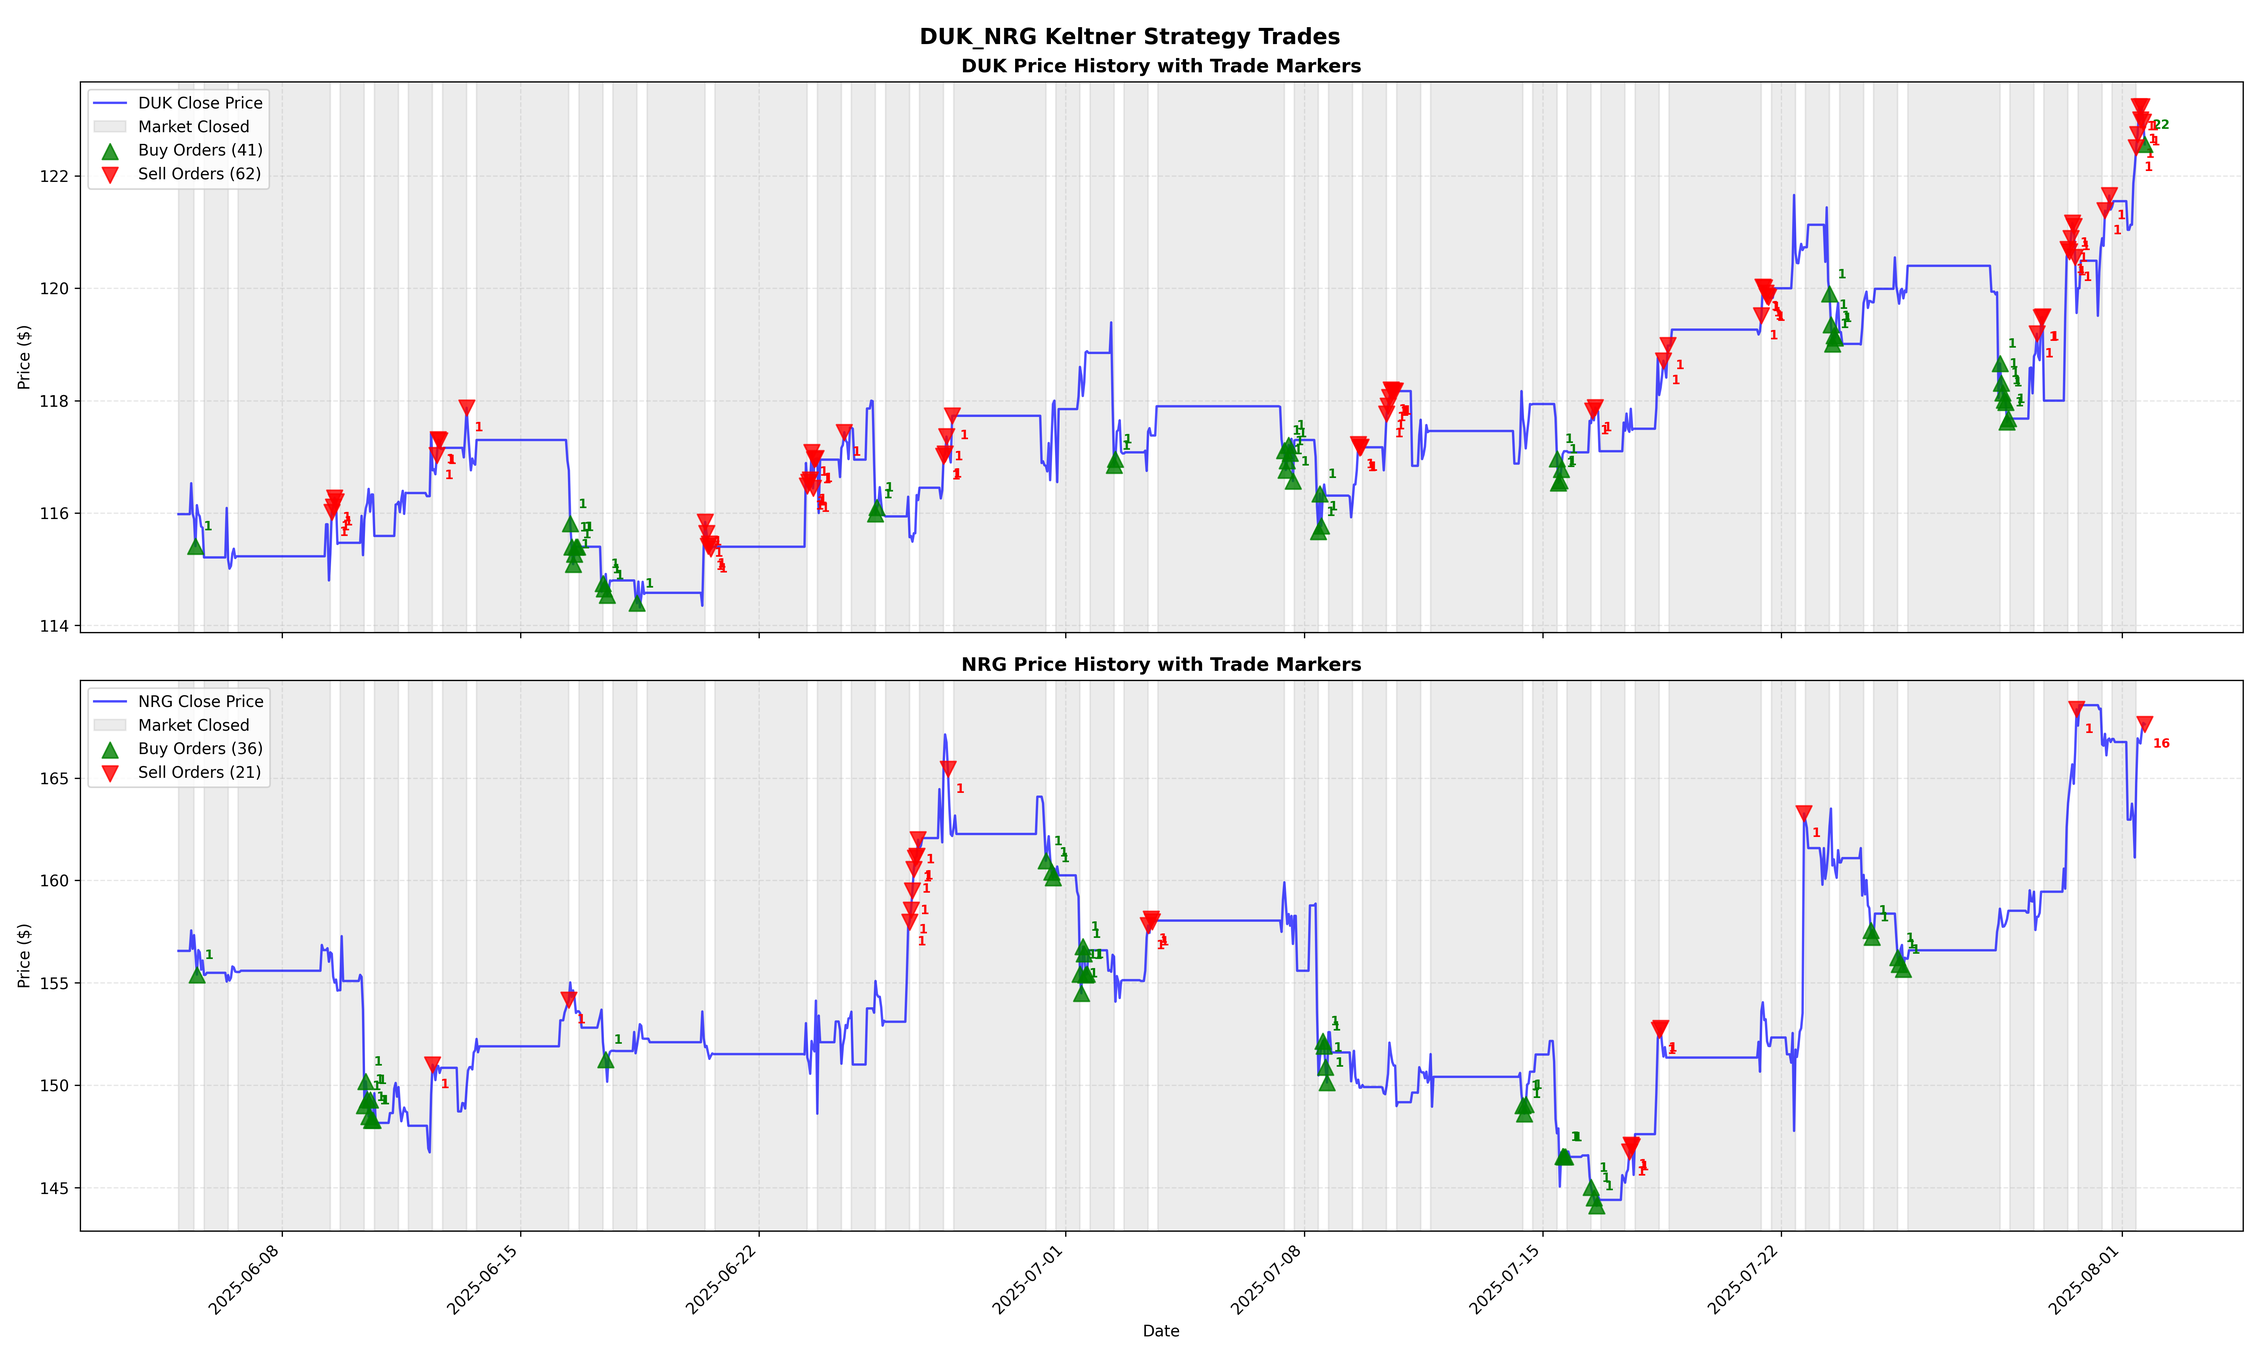
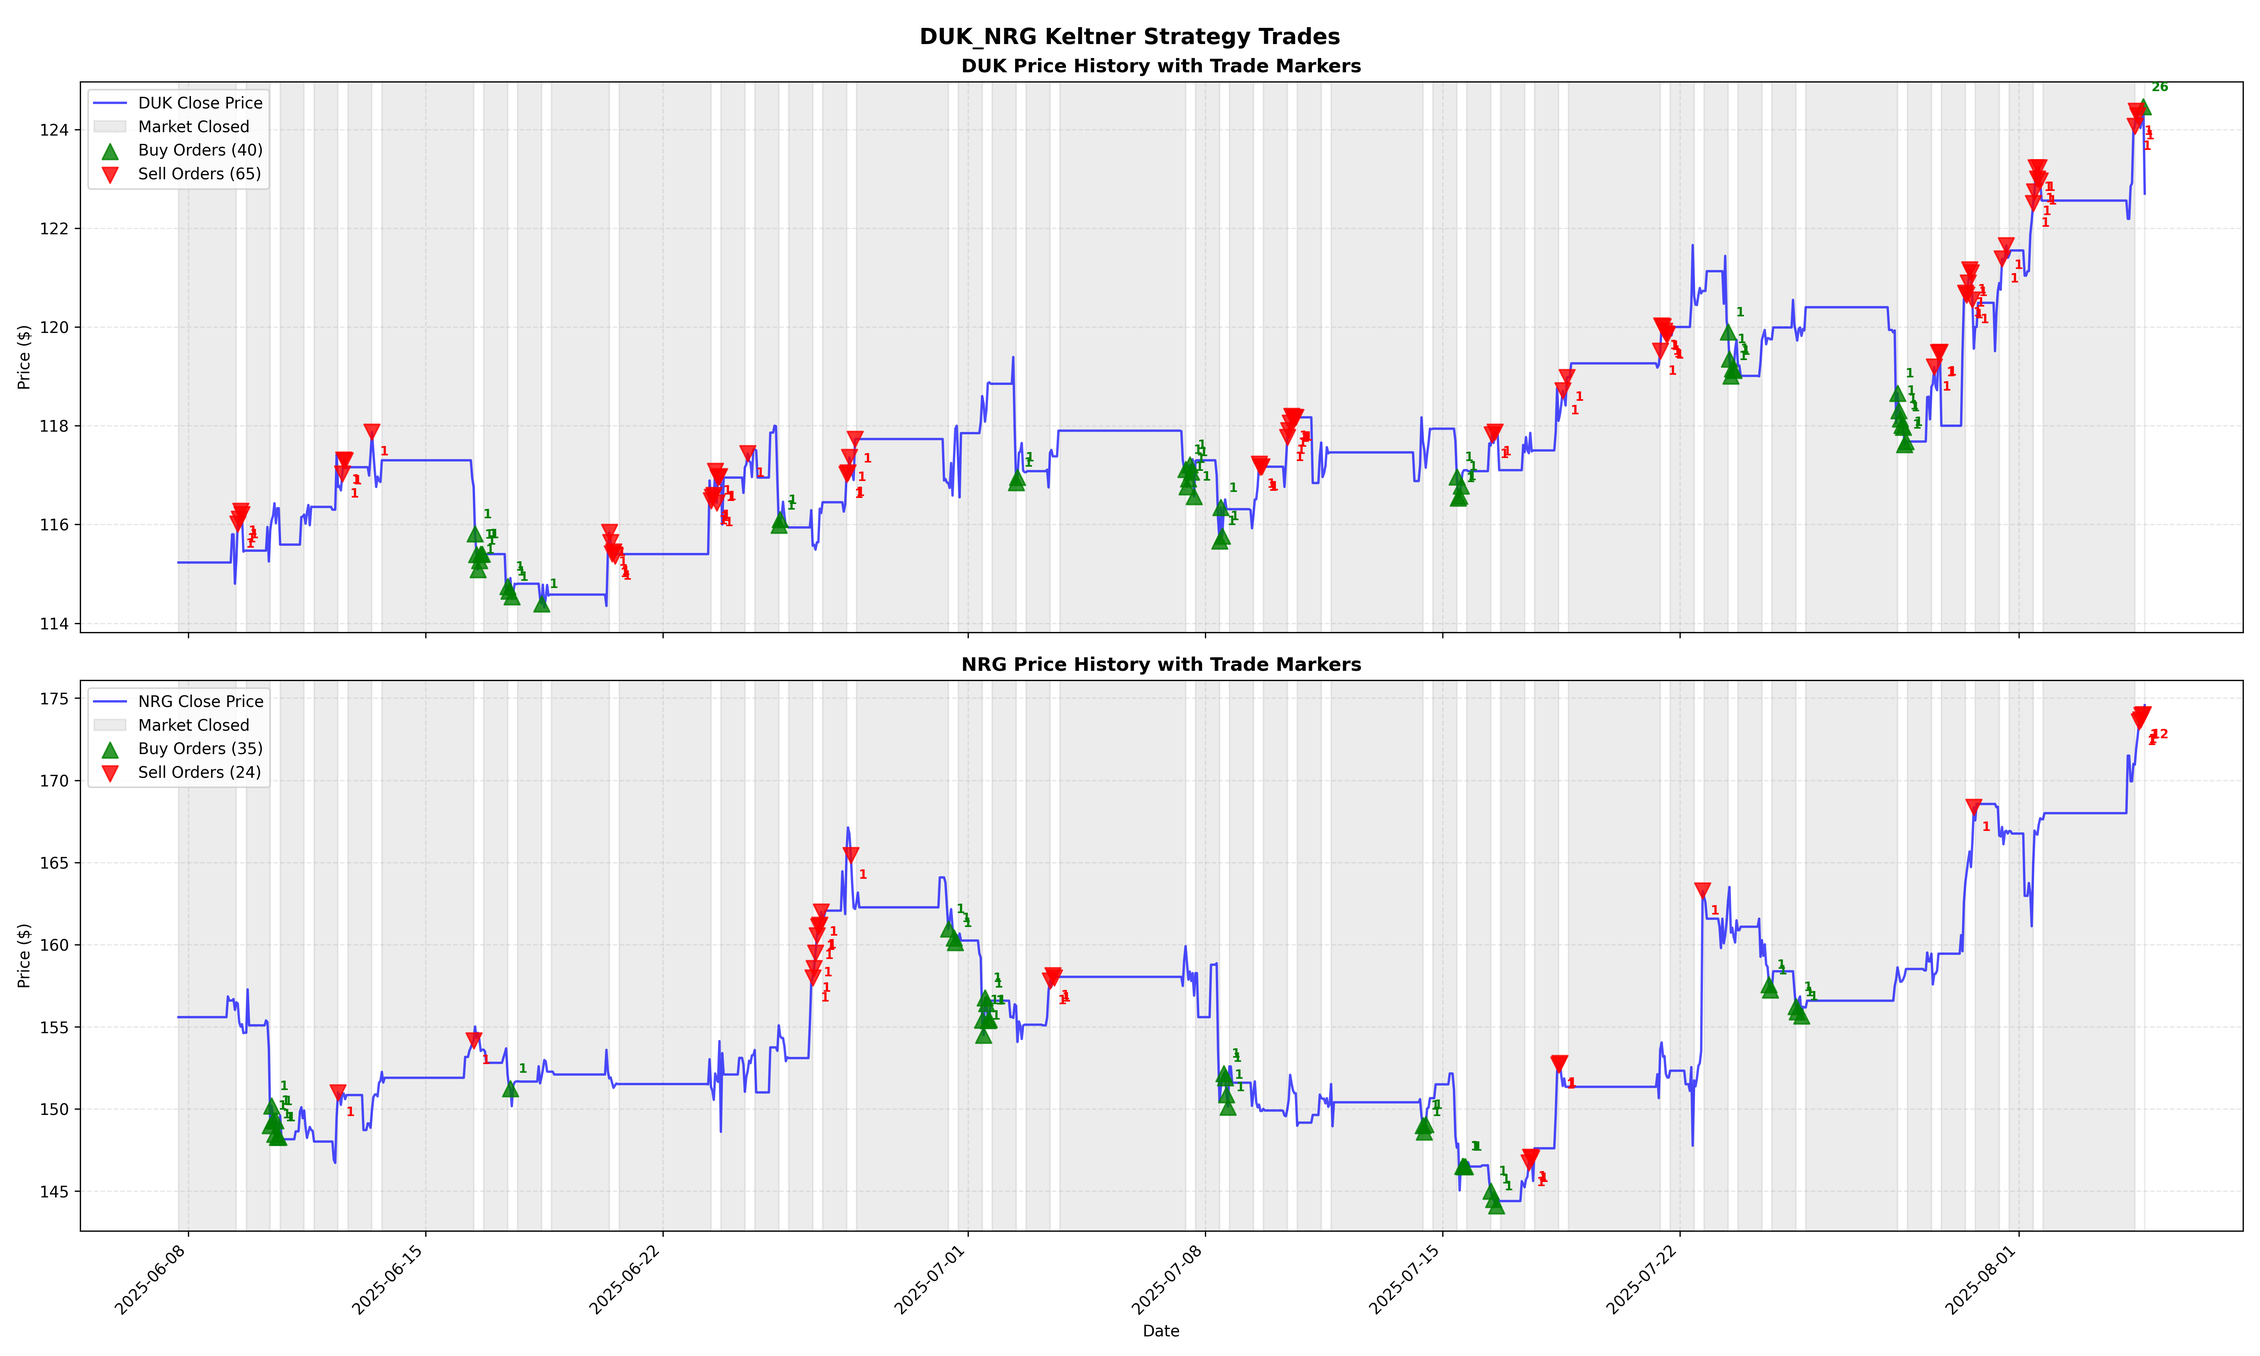
screwing around with more strats

diff --git a/src/backtester.py b/src/backtester.py
@@ -30,7 +30,7 @@ class Position(Enum):
     NEUTRAL = 0
 
 
-QUANTITY_PRECISION = 2
+QUANTITY_PRECISION = 4
 
 
 class Order:
@@ -52,7 +52,7 @@ class Order:
     def get_value(self) -> float:
         """Get the value of the order.
         """
-        return round(self.price * self.quantity, QUANTITY_PRECISION)
+        return self.price * self.quantity
 
     def __str__(self) -> str:
         """String representation of the order.
@@ -414,13 +414,19 @@ class EventBacktester(ABC):
         win_rate, net_profits = self.get_win_rate(return_net_profits=True)
         avg_trade_return = net_profits["net_profit_percentage"].mean()
         largest_win = net_profits["net_profit_percentage"].max()
-        largest_loss = net_profits["net_profit_percentage"].min()
+        largest_loss = net_profits["net_profit_percentage"].min(
+        ) if net_profits["net_profit_percentage"].min() < 0 else 0
         largest_win_dollars = net_profits["net_profit_dollars"].max()
         largest_loss_dollars = net_profits["net_profit_dollars"].min()
         max_consecutive_wins = net_profits["win"].astype(
             int).diff().ne(0).cumsum().max()
         max_consecutive_losses = net_profits["win"].astype(
             int).diff().ne(0).cumsum().min()
+
+        # calculate percentage of time in market. meaning, the percentage of time that the portfolio was not empty
+        time_in_market = (
+            state_history["portfolio_value"] != 0).sum() / len(state_history)
+
         # compare to buy and hold (prices)
         all_cum_returns = self.get_buy_and_hold_returns()
         combined_returns = all_cum_returns.mean(axis=1)
@@ -454,8 +460,39 @@ class EventBacktester(ABC):
             "largest_win_dollars": round(largest_win_dollars, 2),
             "largest_loss_dollars": round(largest_loss_dollars, 2),
             "max_consecutive_wins": max_consecutive_wins,
-            "max_consecutive_losses": max_consecutive_losses
+            "max_consecutive_losses": max_consecutive_losses,
+            "time_in_market": time_in_market
         })
+
+    def pretty_format_performance(self) -> str:
+        """
+        Pretty print the performance of the backtest.
+        """
+        performance = self.analyze_performance()
+        output = f"""Backtest Performance:
+- Return on Investment: {(performance["return_on_investment"]-1)*100:.2f}%
+- vs. Buy and Hold Return: {(performance["buy_and_hold_return"]-1)*100:.2f}%
+- Sharpe Ratio: {performance["sharpe_ratio"]:.2f}
+- Max Drawdown Percentage: {(performance["max_drawdown_percentage"])*100:.2f}%\n
+- Start Portfolio Value: ${performance["start_portfolio_value"]:.2f}
+- End Portfolio Value: ${performance["end_portfolio_value"]:.2f}
+- Min Portfolio Value: ${performance["min_portfolio_value"]:.2f}
+- Max Portfolio Value: ${performance["max_portfolio_value"]:.2f}
+- Win Rate: {performance["win_rate"]*100:.2f}%\n
+- Number of Orders: {performance["number_of_orders"]}
+- Number of Winning Trades: {performance["number_of_winning_trades"]}
+- Number of Losing Trades: {performance["number_of_losing_trades"]}
+- Avg Trade Return: {performance["avg_trade_return"]*100:.2f}%
+- Largest Win: {performance["largest_win"]*100:.2f}% (${performance["largest_win_dollars"]:.2f})
+- Largest Loss: {performance["largest_loss"]*100:.2f}% (${performance["largest_loss_dollars"]:.2f})
+- Max Consecutive Wins: {performance["max_consecutive_wins"]}
+- Max Consecutive Losses: {performance["max_consecutive_losses"]}\n
+- Trading Period Start: {performance["trading_period_start"]}
+- Trading Period End: {performance["trading_period_end"]}
+- Trading Period Length: {performance["trading_period_length"]}
+- Time in Market: {performance["time_in_market"]*100:.2f}%
+        """
+        return output
 
     def calculate_sharpe_ratio(self, risk_free_rate: float = 0.0, periods_per_year: int = 252) -> float:
         """
@@ -804,7 +841,7 @@ class EventBacktester(ABC):
         plt.tight_layout()
 
         if save_plot:
-            plt_show(prefix=title.replace(" ", "_"))
+            plt_show(prefix=title.replace(" ", "_").replace("/", ""))
 
         if show_plot:
             plt.show()
@@ -945,7 +982,7 @@ class EventBacktester(ABC):
         plt.tight_layout()
 
         if save_plot:
-            plt_show(prefix=title.replace(" ", "_"))
+            plt_show(prefix=title.replace(" ", "_").replace("/", ""))
 
         if show_plot:
             plt.show()
@@ -1043,7 +1080,11 @@ class EventBacktester(ABC):
                         # Add quantity annotations for buy orders
                         for idx, row in buy_orders.iterrows():
                             if show_quantity:
-                                ax.annotate(f"{row['quantity']:.0f}",
+                                if row['quantity'] < 1:
+                                    fmtstr = f"{row['quantity']:.2e}"
+                                else:
+                                    fmtstr = f"{row['quantity']:.0f}"
+                                ax.annotate(fmtstr,
                                             (idx, row['price']),
                                             xytext=(5, 10), textcoords='offset points',
                                             fontsize=8, color='green', weight='bold')
@@ -1057,7 +1098,11 @@ class EventBacktester(ABC):
                         # Add quantity annotations for sell orders
                         for idx, row in sell_orders.iterrows():
                             if show_quantity:
-                                ax.annotate(f"{row['quantity']:.0f}",
+                                if row['quantity'] < 1:
+                                    fmtstr = f"{row['quantity']:.2e}"
+                                else:
+                                    fmtstr = f"{row['quantity']:.0f}"
+                                ax.annotate(fmtstr,
                                             (idx, row['price']),
                                             xytext=(5, -15), textcoords='offset points',
                                             fontsize=8, color='red', weight='bold')
@@ -1095,7 +1140,7 @@ class EventBacktester(ABC):
         plt.tight_layout()
 
         if save_plot:
-            plt_show(prefix=title.replace(" ", "_"))
+            plt_show(prefix=title.replace(" ", "_").replace("/", ""))
 
         if show_plot:
             plt.show()

diff --git a/examples/ema_rsi.py b/examples/ema_rsi.py
@@ -1,0 +1,112 @@
+from datetime import datetime, timedelta
+import logging
+
+from alpaca.data.timeframe import TimeFrame
+import pandas as pd
+from talib import ATR, EMA, RSI
+
+from data import (
+    download_crypto_bars,
+    download_bars,
+    separate_bars_by_symbol,
+    split_multi_index_bars_train_test,
+)
+
+from __init__ import *
+from src import *
+from src.backtester import EventBacktester, Order, Position
+from src.utilities import dash, get_logger, set_log_level
+
+set_log_level(logging.DEBUG)
+
+
+class EmaStrategy(EventBacktester):
+    """
+    Backtester that uses the Keltner Channel to make decisions.
+    """
+
+    def __init__(self, active_symbols, cash, **kwargs):
+        super().__init__(active_symbols, cash, **kwargs)
+        self.short_ema_period = 21
+        self.long_ema_period = 200
+        self.rsi_period = 14
+
+    def precompute_step(self, bars: pd.DataFrame):
+        """
+        Preload the indicators for the backtest.
+        """
+
+        split_bars = separate_bars_by_symbol(bars)
+
+        self.short_emas = {symbol: EMA(
+            split_bars[symbol].loc[:, "close"], timeperiod=self.short_ema_period) for symbol in self.active_symbols}
+        self.long_emas = {symbol: EMA(
+            split_bars[symbol].loc[:, "close"], timeperiod=self.long_ema_period) for symbol in self.active_symbols}
+        self.rsis = {symbol: RSI(
+            split_bars[symbol].loc[:, "close"], timeperiod=self.rsi_period) for symbol in self.active_symbols}
+
+    def update_step(self, bars: pd.DataFrame, index: pd.Timestamp):
+        """
+        Update the state of the backtester.
+        """
+        split_bars = separate_bars_by_symbol(bars)
+
+        self.short_emas = {symbol: EMA(
+            split_bars[symbol].loc[:, "close"], timeperiod=self.short_ema_period) for symbol in self.active_symbols}
+        self.long_emas = {symbol: EMA(
+            split_bars[symbol].loc[:, "close"], timeperiod=self.long_ema_period) for symbol in self.active_symbols}
+        self.rsis = {symbol: RSI(
+            split_bars[symbol].loc[:, "close"], timeperiod=self.rsi_period) for symbol in self.active_symbols}
+
+    def generate_order(self, bar: pd.DataFrame, index: pd.Timestamp) -> Order:
+        """
+        Make a decision based on the prices.
+        """
+        close_prices = bar.loc[:, "close"]
+
+        for symbol in self.active_symbols:
+            quantity = round(1000 / close_prices[symbol], 4)
+            if self.rsis[symbol][index] > 75 and self.short_emas[symbol][index] > self.long_emas[symbol][index]:
+                return Order(symbol, Position.SHORT, close_prices[symbol], quantity)
+            elif self.rsis[symbol][index] < 25 and self.short_emas[symbol][index] < self.long_emas[symbol][index]:
+                return Order(symbol, Position.LONG, close_prices[symbol], quantity)
+
+
+if __name__ == "__main__":
+    symbols = ["BTC/USD"]
+    # download the bars
+    bars = download_crypto_bars(symbols, start_date=datetime(
+        2024, 1, 1), end_date=datetime.now() - timedelta(minutes=15), timeframe=TimeFrame.Hour)
+
+    # bars = download_bars(symbols, start_date=datetime(
+   #     2024, 1, 1), end_date=datetime.now() - timedelta(minutes=15), timeframe=TimeFrame.Hour)
+    # split the bars into train and test
+    train_bars, test_bars = split_multi_index_bars_train_test(
+        bars, split_ratio=0.9)
+
+    # create the backtester
+    backtester = EmaStrategy(
+        symbols, cash=2000, allow_short=True, allow_overdraft=False, min_trade_value=1, market_hours_only=False)
+
+    # preload the train bars
+    backtester.load_train_bars(train_bars)
+
+    # run_backtest the backtest
+    backtester.run_backtest(test_bars)
+
+    # plot the order and state history
+    print(dash("order history"))
+    print(backtester.get_history())
+    print(dash("state history"))
+    print(backtester.get_state_history())
+
+    # plot the performance
+    print(dash("performance"))
+    print(backtester.pretty_format_performance())
+
+    # Plot the results
+    print("plotting...")
+    backtester.plot_performance_analysis(
+        title="_".join(symbols)+" EMA RSI Strategy Performance")
+    backtester.plot_trade_history(
+        title="_".join(symbols)+" EMA RSI Strategy Trades")

diff --git a/examples/data.py b/examples/data.py
@@ -2,7 +2,10 @@ import os
 from datetime import datetime, timedelta
 import pandas as pd
 from alpaca.data.historical import StockHistoricalDataClient
-from alpaca.data.requests import StockBarsRequest
+from alpaca.data.historical.crypto import CryptoHistoricalDataClient
+
+
+from alpaca.data.requests import StockBarsRequest, CryptoBarsRequest
 from alpaca.data.timeframe import TimeFrame
 
 # path wrangling
@@ -62,14 +65,54 @@ def download_bars(symbols: list[str], start_date: datetime, end_date: datetime,
         end=end_date,
         adjustment="all",
     )
-    filename = f"{'_'.join(symbols)}_{start_date}_{end_date}_{timeframe.value}"
-
+    symbol_str = ""
+    for symbol in symbols:
+        symbol_str += symbol.replace("/", "_")
+    filename = f"{symbol_str}_{start_date}_{end_date}_{timeframe.value}"
     if refresh_bars or not (os.path.exists(os.path.join(data_dir, filename + ".csv")) or os.path.exists(os.path.join(data_dir, filename + ".pkl"))):
         logger.debug(
             f"Refreshing... downloading bars for {symbols} from {start_date} to {end_date} with timeframe {timeframe.value}")
         bars = client.get_stock_bars(request_params).df  # get the bars
         # convert all the dates to est. this is a multi-index dataframe, so we need to convert the index
         bars.index = bars.index.map(lambda x: (x[0], x[1].astimezone(eastern)))
+        if resample:
+            bars = BarUtils.resample_multi_symbol_bars(bars)
+        save_dataframe(bars, filename, data_dir)
+        logger.debug(f"Saved bars to {filename}")
+
+    return load_dataframe(filename, data_dir)
+
+
+def download_crypto_bars(symbols: list[str], start_date: datetime, end_date: datetime,
+                         timeframe: TimeFrame, refresh_bars: bool = False,
+                         data_dir: str = getenv("DATA_DIR"), resample: bool = True) -> pd.DataFrame:
+    """Download the bars for the given symbols. Will first check if the bars are already downloaded and if not, will download them.
+    This requires an Alpaca API key.
+    """
+    start_date = start_date.strftime("%Y-%m-%d")
+    end_date = end_date.strftime("%Y-%m-%d")
+    logger.debug(
+        f"Loading close prices for {len(symbols)} symbols from {start_date} to {end_date} with timeframe {timeframe.value}")
+    ALPACA_API_KEY = getenv("ALPACA_API_KEY")
+    ALPACA_API_SECRET = getenv("ALPACA_API_SECRET")
+    client = CryptoHistoricalDataClient(
+        api_key=ALPACA_API_KEY, secret_key=ALPACA_API_SECRET
+    )
+    request_params = CryptoBarsRequest(
+        symbol_or_symbols=symbols,
+        timeframe=timeframe,
+        start=start_date,
+        end=end_date,
+        adjustment="all",
+    )
+    symbol_str = ""
+    for symbol in symbols:
+        symbol_str += symbol.replace("/", "_")
+    filename = f"{symbol_str}_{start_date}_{end_date}_{timeframe.value}"
+    if refresh_bars or not (os.path.exists(os.path.join(data_dir, filename + ".csv")) or os.path.exists(os.path.join(data_dir, filename + ".pkl"))):
+        logger.debug(
+            f"Refreshing... downloading bars for {symbols} from {start_date} to {end_date} with timeframe {timeframe.value}")
+        bars = client.get_crypto_bars(request_params).df
         if resample:
             bars = BarUtils.resample_multi_symbol_bars(bars)
         save_dataframe(bars, filename, data_dir)
@@ -281,6 +324,10 @@ class BarUtils:
 
 
 if __name__ == "__main__":
+    bars = download_crypto_bars(["ETH/USD"], datetime(2025, 7, 1),
+                                datetime.now(), TimeFrame.Hour)
+    print(bars)
+
     bars = download_bars(["AAPL"], datetime(2025, 7, 1),
-                         datetime(2025, 7, 31), TimeFrame.Hour)
+                         datetime.now() - timedelta(minutes=15), TimeFrame.Hour)
     print(bars)

diff --git a/examples/keltner_channel.py b/examples/keltner_channel.py
@@ -5,7 +5,7 @@ from alpaca.data.timeframe import TimeFrame
 import pandas as pd
 from talib import ATR, EMA
 
-from bars import (
+from data import (
     download_bars,
     separate_bars_by_symbol,
     split_multi_index_bars_train_test,
@@ -78,7 +78,6 @@ if __name__ == "__main__":
     # download the bars
     bars = download_bars(symbols, start_date=datetime(
         2024, 1, 1), end_date=datetime.now() - timedelta(minutes=15), timeframe=TimeFrame.Hour)
-
     # split the bars into train and test
     train_bars, test_bars = split_multi_index_bars_train_test(
         bars, split_ratio=0.9)
@@ -101,12 +100,10 @@ if __name__ == "__main__":
 
     # plot the performance
     print(dash("performance"))
-    print(backtester.analyze_performance())
+    print(backtester.pretty_format_performance())
 
     # Plot the results
     print("plotting...")
-    backtester.plot_equity_curve(
-        title="_".join(symbols)+" Keltner Strategy Equity Curve")
     backtester.plot_performance_analysis(
         title="_".join(symbols)+" Keltner Strategy Performance")
     backtester.plot_trade_history(

diff --git a/README.md b/README.md
@@ -255,7 +255,7 @@ The `WITH_EXTRAS` build arg tells the builder to include libraries to run the ex
 To run the image, run the following command:
 
 ```bash
-docker run -it bacta --env-file .env
+docker run -it --env-file .env -v $(pwd):/app bacta 
 ```
 
 You can also install the package locally with:
